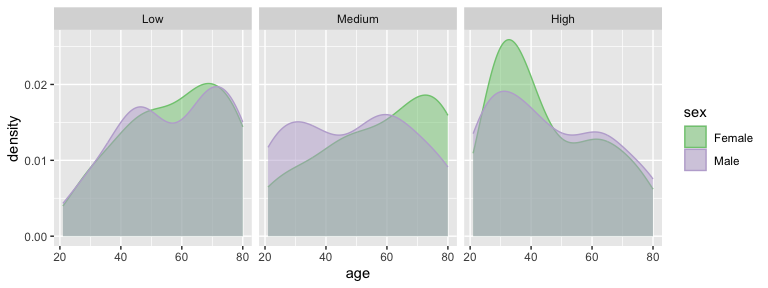
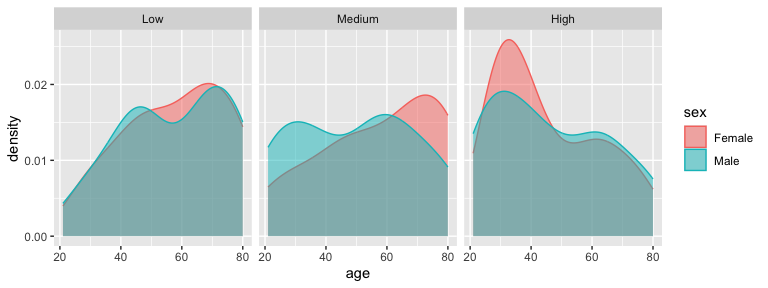
Complete Problem 2

Changed region(s): [[0.0625, 0.125, 0.875, 0.8438], [0.875, 0.4375, 0.9375, 0.5938]]

diff --git a/p8105_hw3_yl5839.md b/p8105_hw3_yl5839.md
@@ -90,11 +90,11 @@ I load and clean name of the accelerometer data and merge that with
 demographic data. Finally, I turn the nonnumeric variable in column
 `seqn`, `sex` and `education` into factors.
 
-- `seqn`: the identity of each participant
-- `sex`: match 1 ~ ‘Male’ and 2 ~ ‘Female’
+- `seqn`: the identity of each participant.
+- `sex`: match 1 ~ ‘Male’ and 2 ~ ‘Female’.
 - `education`:
-  - match 1 ~ ‘Low’, meaning less than high school
-  - match 2 ~ ‘Medium’, meaning high school equivalent
+  - match 1 ~ ‘Low’, meaning less than high school;
+  - match 2 ~ ‘Medium’, meaning high school equivalent;
   - match 1 ~ ‘High’, meaning more than high school.
 
 The final data includes 228 participants and the total 1445 columns
@@ -106,7 +106,7 @@ minutes of a 24-hour day starting at midnight.
 ### Table for sex v.s. education
 
 Here is the reader-friendly table for number of men and women in each
-education category
+education category.
 
 ``` r
 final_df |> 
@@ -135,8 +135,6 @@ education category.
 final_df |> 
   ggplot(aes(x=age, color = sex, fill = sex))+
   geom_density(alpha = .5)+
-  scale_color_brewer(type = 'qual')+
-  scale_fill_brewer(type = 'qual')+
   facet_grid(~education)
 ```
 
@@ -164,8 +162,6 @@ final_df |>
   ggplot(aes(x=age, y= total_act, fill = sex, color = sex))+
   geom_point(alpha = .5)+
   geom_smooth(se= F)+
-  scale_color_brewer(type = 'qual')+
-  scale_fill_brewer(type = 'qual')+
   facet_grid(~education)
 ```
 
@@ -173,9 +169,26 @@ final_df |>
 
 **Comment:**
 
-From here unfinished . Need to be done ()!!!
+- In low education category, the average of total activity value of
+  women under 40 is higher than that of men in the same age. However,
+  the average of total activity value of women over 40 is lower than
+  that of men in the same age. Additionally, the younger ones have
+  significant more activities than the older ones.
+- In medium education category, the average of total activity value of
+  women is higher than that of men in the same age except the group
+  under 25, where men have higher values than the same age women.
+  Besides, the people at around 40 years old have the highest total
+  activity values while people over 60 years old generally have the
+  total activity values.
+- In high education category, the average of total activity value of
+  women is higher than that of men in the same age. And there’s only a
+  little decrease in the total activity values among the old ones than
+  that among the younger ones.
 
-### Plot for 24-hour activity time
+### Plot for 24-hour Activity Time
+
+I divide the MIMS values in to 24 hours category and make the box plot
+of the mean value among different sex and education level.
 
 ``` r
 final_df |> pivot_longer(
@@ -184,15 +197,34 @@ final_df |> pivot_longer(
   names_prefix = 'min',
   values_to = 'act_time'
 ) |> 
-  mutate(min = as.numeric(min)) |> 
-  ggplot(aes(x=min, y= act_time, fill = sex, color = sex))+
-  geom_point(alpha = .5, size= .3)+
+  mutate(min = as.numeric(min),
+         hour = factor(paste0(ceiling(min/60)-1,'-',(ceiling(min/60))%%24,'h')),
+         hour = forcats::fct_reorder(hour, min, median)) |>
+  ggplot(aes(x=hour, y= act_time, fill = sex, color = sex))+
+  geom_boxplot(alpha=.5, position = 'dodge',outlier.size=.5)+
   geom_smooth(se= F)+
-  scale_color_brewer(type = 'qual')+
-  scale_fill_brewer(type = 'qual')+
-  facet_grid(education ~.)
+  facet_grid(education~.)+
+  theme(axis.text.x = element_text(angle = 45, hjust = 1))
 ```
 
 ![](p8105_hw3_yl5839_files/figure-gfm/unnamed-chunk-7-1.png)<!-- -->
+
+**Comment:**
+
+- In low education category, there isn’t much different between women
+  and men in different time slot within a 24-hour day. However, men have
+  slightly higher mean MIMS values than women from 8pm to 8am the next
+  day.
+- In medium education category, the mean MIMS value doesn’t vary much
+  between different sex.
+- In high education category, women have higher mean MIMS values than
+  men in the day (from 7am to 8pm), while in the other time, there isn’t
+  much significant difference between people of different sex.
+
+In general level, if compare people of different sex at the same time
+period of the day, men have higher mean MIMS value around the midnight
+while women have higher mean MIMS value in the day. This applies to all
+the three education category. Besides, people generally have high MINS
+value in the day time and low value during the night.
 
 # Problem 3
